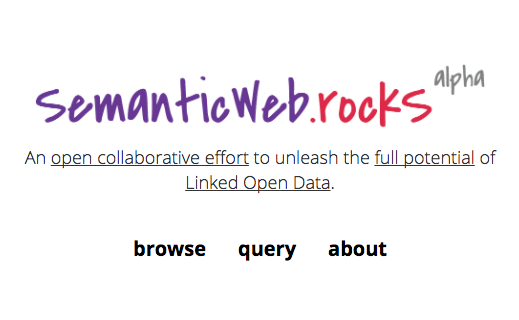
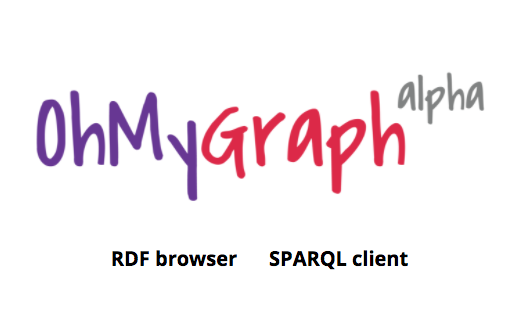
Changed the site structure.

Changed region(s): [[0.0308, 0.2188, 0.9557, 0.625], [0.2158, 0.75, 0.8015, 0.8438], [0.3699, 0.2188, 0.4008, 0.25]]

diff --git a/client/src/components/Home.vue b/client/src/components/Home.vue
@@ -5,15 +5,14 @@
     </div>
     <div class="my-home-content">
       <div class="my-logo-container">
-        <img src="/static/images/logo.png" alt="SemanticWeb.rocks" class="my-logo">
+        <img src="/static/images/logo.png" :alt="SITE_NAME" class="my-logo">
       </div>
-      <div class="my-motto">
-        An <span class="my-m1">open collaborative effort</span> to unleash the <span class="my-m3">full potential</span> of <span class="my-m2">Linked Open Data</span>.
-      </div>
+<!--       <div class="my-motto">
+        A SPARQL client and RDF browser.
+      </div> -->
       <ul class="nav nav-pills my-nav-central">
-        <li role="presentation"><router-link :to="{ name: 'resource-browser' }">Browse</router-link></li>
-        <li role="presentation"><router-link :to="{ name: 'query-browser' }">Query</router-link></li>
-        <li role="presentation"><router-link :to="{ name: 'about' }">About</router-link></li>
+        <li role="presentation"><router-link :to="{ name: 'resource-browser' }">RDF browser</router-link></li>
+        <li role="presentation"><router-link :to="{ name: 'query-browser' }">SPARQL client</router-link></li>
       </ul>
       <div class="my-screencast">
         <img src="/static/images/screencast1.gif">
@@ -34,6 +33,12 @@ export default {
   components: {
     SocialButtons,
   },
+
+  data() {
+    return {
+      SITE_NAME: CONF.SITE_NAME,
+    }
+  },
 }
 </script>
 
@@ -52,6 +57,10 @@ export default {
   margin-top: 13vh;
   text-align: center;
 
+}
+
+.my-logo-container {
+  // margin-bottom: 25px;
 }
 
 @media (max-width: $screen-xs-min - 1) {
@@ -79,7 +88,6 @@ export default {
 
   a, a:link, a:active, a:focus, a:hover {
     color: black;
-    text-transform: lowercase;
   }
 }
 

diff --git a/client/src/components/MainNavigation.vue b/client/src/components/MainNavigation.vue
@@ -10,14 +10,13 @@
         </button>
         <span class="visible-xs filter-menu"></span>
         <router-link :to="{ name: 'home' }" class="navbar-brand">
-          <img src="/static/images/logo.png" alt="SemanticWeb.rocks" class="my-logo">
+          <img src="/static/images/logo.png" :alt="SITE_NAME" class="my-logo">
         </router-link>
       </div>
       <div class="collapse navbar-collapse" id="app-navbar-collapse">
         <ul class="nav navbar-nav my-nav-main">
           <li><router-link :to="{ name: 'resource-browser' }">Browse</router-link></li>
           <li><router-link :to="{ name: 'query-browser' }">Query</router-link></li>
-          <li><router-link :to="{ name: 'about' }">About</router-link></li>
         </ul>
         <social-buttons class="nav navbar-nav navbar-right"></social-buttons>
       </div>
@@ -37,6 +36,12 @@ export default {
   components: {
     SocialButtons,
   },
+
+  data() {
+    return {
+      SITE_NAME: CONF.SITE_NAME,
+    }
+  },
 }
 </script>
 
@@ -53,7 +58,7 @@ export default {
   background: #fff;
 }
 
-$logo-padding-top: 9px;
+$logo-padding-top: 7px;
 
 .my-logo {
   height: $navbar-height - $logo-padding-top * 2;

diff --git a/client/src/components/Contributors.vue b/client/src/components/Contributors.vue
@@ -1,0 +1,40 @@
+<template>
+  <div class="container my-contributors-page">
+    <h1>
+      Contributors
+    </h1>
+
+    <p>
+      OhMyGraph Semantic Browser is created by <a href="http://armen.inants.com">Armen Inants</a>.
+      UI/UX by <a href="https://www.upwork.com/o/profiles/users/_~01d60548106171fae6">Mery Jagityan</a>.
+    </p>
+    <p>
+      The application is written in JavaScript using Vue.js on the front end.
+      The source code is open and available under Apache License 2.0.
+    </p>
+    <p>
+      Want to become a contributor?
+      Fork the project, improve the code or add new features, and share!
+    </p>
+    </p>
+    <p>
+      For any suggestion or feedback <router-link :to="{ name: 'contact-us' }">drop us a note</router-link>.
+      All comments are much appreciated!
+    </p>
+  </div>
+</template>
+
+
+<script>
+/**
+ * @vue
+ * @author Armen Inants <armen@inants.com>
+ */
+export default {
+}
+</script>
+
+
+<style lang="scss" scoped>
+
+</style>

diff --git a/client/src/components/UsefulLinks.vue b/client/src/components/UsefulLinks.vue
@@ -16,6 +16,7 @@
       <li><a href="https://www.w3.org/2009/sparql/wiki/Main_Page" class="my-link">The SPARQL 1.1 Working Group Wiki</a> &mdash; Links to eleven W3C Recommendations by the group.</li>
       <li><a href="http://www.iro.umontreal.ca/~lapalme/ift6281/sparql-1_1-cheat-sheet.pdf" class="my-link">SPARQL By Example: The Cheat Sheet</a></li>
       <li><a href="https://www.w3.org/TR/skos-primer/" class="my-link">SKOS Simple Knowledge Organization System Primer</a> &mdash; SKOS (Simple Knowledge Organization System) provides a model for expressing the basic structure and content of concept schemes such as thesauri, classification schemes, subject heading lists, taxonomies, folksonomies, and other similar types of controlled vocabulary.</li>
+      <li><a href="https://www.w3.org/wiki/SweoIG/TaskForces/CommunityProjects/LinkingOpenData" class="my-link">Linking Open Data Community</a> &mdash; Links to relevant material.</li>
     </ol>
   </div>
 </template>

diff --git a/client/src/components/TheFooter.vue b/client/src/components/TheFooter.vue
@@ -1,12 +1,13 @@
 <template>
   <div class="container-fluid footer">
     <div class="row">
-        <div class="col-xs-8">
-          This work is licensed under <a href="https://raw.githubusercontent.com/armeninants/ai-semantic-browser/master/LICENSE">Apache License 2.0</a>.
+        <div class="col-xs-6">
+          This work is licensed under <a href="https://raw.githubusercontent.com/armeninants/ohmygraph/master/LICENSE">Apache License 2.0</a>.
         </div>
-        <div class="col-xs-4 my-footer-menu">
+        <div class="col-xs-6 my-footer-menu">
             <ul class="list-inline">
               <li><router-link :to="{ name: 'useful-links' }">useful links</router-link></li>
+              <li><router-link :to="{ name: 'contributors' }">contributors</router-link></li>
               <li><router-link :to="{ name: 'contact-us' }">contact us</router-link></li>
             </ul>
         </div>

diff --git a/client/src/router/index.js b/client/src/router/index.js
@@ -3,7 +3,7 @@ import Router from 'vue-router'
 Vue.use(Router)
 
 import Home from '@/components/Home'
-import About from '@/components/About'
+import Contributors from '@/components/Contributors'
 import TheLayout from '@/components/TheLayout'
 import TheQueryBrowser from '@/components/TheQueryBrowser'
 import TheResourceBrowser from '@/components/TheResourceBrowser'
@@ -44,11 +44,11 @@ const router = new Router({
           },
         },
         {
-          path: '/about',
-          name: 'about',
-          component: About,
+          path: '/contributors',
+          name: 'contributors',
+          component: Contributors,
           meta: {
-            title: route => TITLE_TEMPLATE('About'),
+            title: route => TITLE_TEMPLATE('Contributors'),
           },
         },
         {

diff --git a/client/src/components/SocialButtons.vue b/client/src/components/SocialButtons.vue
@@ -16,7 +16,7 @@
       <a :href="mailShareLink" class="my-share my-share-mail" target="_blank"><i class="fa fa-lg fa-envelope" aria-hidden="true"></i></a>
     </li>
     <li>
-      <a class="my-share my-share-github" href="https://github.com/armeninants/semantic-browser" target="_blank" title="GitHub">
+      <a class="my-share my-share-github" href="https://github.com/armeninants/ohmygraph" target="_blank" title="GitHub">
         <i class="fa fa-lg fa-github" aria-hidden="true"></i>
       </a>
     </li>

diff --git a/client/src/components/settings.js b/client/src/components/settings.js
@@ -4,8 +4,7 @@
 
 export const AJAX_TIMEOUT_MS = 30000
 export const DEFAULT_SPARQL_ENDPOINT = 'https://dbpedia.org/sparql'
-export const SITE_NAME = 'SemanticWeb.rocks'
-export const TITLE_TEMPLATE = (str) => { return SITE_NAME + ' | ' + str }
+export const TITLE_TEMPLATE = (str) => { return CONF.SITE_NAME + ' | ' + str }
 
 export const URI_LENGTH_MAX = 60
 export const DEFAULT_LANG = '' // empty string for no language preferance

diff --git a/README.md b/README.md
@@ -23,8 +23,8 @@ npm install -g webpack-dev-server
 ## Installing
 
 ``` bash
-git clone https://github.com/armeninants/ai-semantic-browser.git
-cd ai-semantic-browser/
+git clone https://github.com/armeninants/ohmygraph.git
+cd ohmygraph/
 chmod gu+x ./*.sh
 ```
 
@@ -60,4 +60,4 @@ npm run start
 
 ## License
 
-This project is licensed under the Apache License 2.0 - see the [LICENSE](https://raw.githubusercontent.com/armeninants/ai-semantic-browser/master/LICENSE) file for details.
+This project is licensed under the Apache License 2.0 - see the [LICENSE](https://raw.githubusercontent.com/armeninants/ohmygraph/master/LICENSE) file for details.
